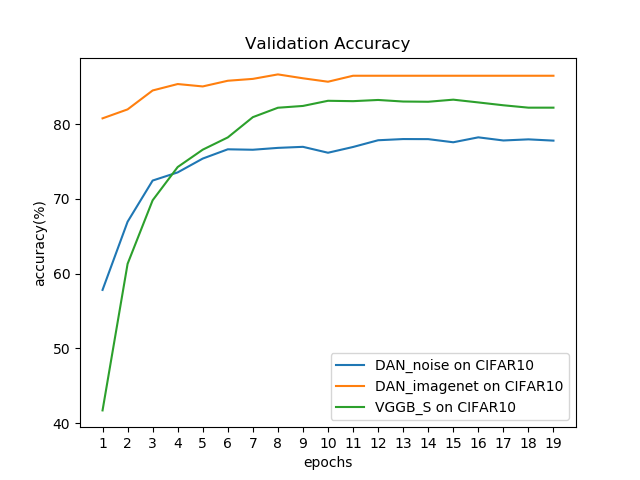
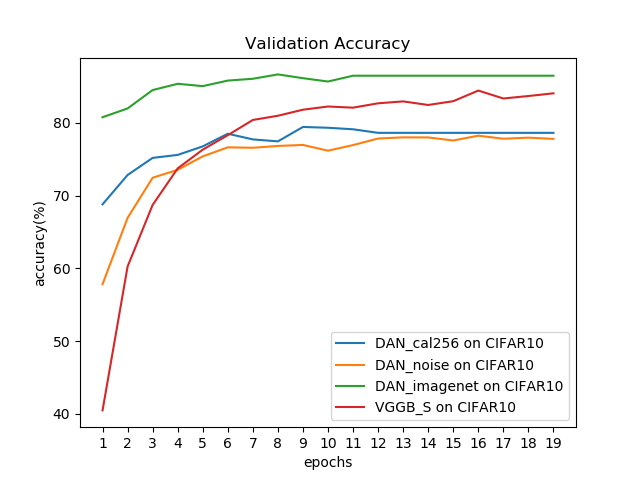
update

diff --git a/draw_learning_curve.py b/draw_learning_curve.py
@@ -1,11 +1,12 @@
 import matplotlib.pyplot as plt
 import numpy as np
 
-
+dan_cal256_on_cifar10 = np.load('./Result/DAN_cal256_on_CIFAR10.npy')
 dan_noise_on_cifar10 = np.load('./Result/DAN_noise_on_CIFAR10.npy')
 dan_imagenet_on_cifar10 = np.load('./Result/DAN_imagenet_on_CIFAR10.npy')
 vggb_s_on_cifar10 = np.load('./Result/VGGB_S_on_CIFAR10.npy')
 
+print(dan_cal256_on_cifar10.shape)
 print(dan_noise_on_cifar10.shape)
 print(dan_imagenet_on_cifar10.shape)
 print(vggb_s_on_cifar10.shape)
@@ -15,9 +16,10 @@ plt.xlabel('epochs')
 plt.ylabel('accuracy(%)')
 plt.xticks(x)
 plt.yticks(np.arange(10,100,10))
+plt.plot(x, np.lib.pad(dan_cal256_on_cifar10[:,1], (0,7), 'constant', constant_values = (0,dan_cal256_on_cifar10[-1,-1])), label='DAN_cal256 on CIFAR10')
 plt.plot(x, dan_noise_on_cifar10[:,1], label='DAN_noise on CIFAR10')
 plt.plot(x, np.lib.pad(dan_imagenet_on_cifar10[:,1],(0,8),'constant',constant_values = (0,dan_imagenet_on_cifar10[-1,-1])), label='DAN_imagenet on CIFAR10')
-plt.plot(x, np.lib.pad(vggb_s_on_cifar10[:, 1], (0, 1), 'constant', constant_values=(0, vggb_s_on_cifar10[-1, -1])), label='VGGB_S on CIFAR10')
+plt.plot(x, vggb_s_on_cifar10[:, 1], label='VGGB_S on CIFAR10')
 plt.legend()
 plt.title('Validation Accuracy')
 plt.savefig('./graph/valid_acc.png')

diff --git a/README.md b/README.md
@@ -18,7 +18,7 @@ Test accuracy:
 | VGGB S       | 82.22   |
 | DAN noise    | 77.48   |
 | DAN imagenet | 86.52   |
-
+| DAN cal256   | 79.21   |
 Some trivial details in our experiments:
 * When initializing the weights in controller modules, we use Identity matrix which is better than initializing randomly; the authors used "Kaiming-uniform" distribution which is interesting
 * Adam optimizer is considerably faster in terms of convergence speed, compared to SGD optimizer
